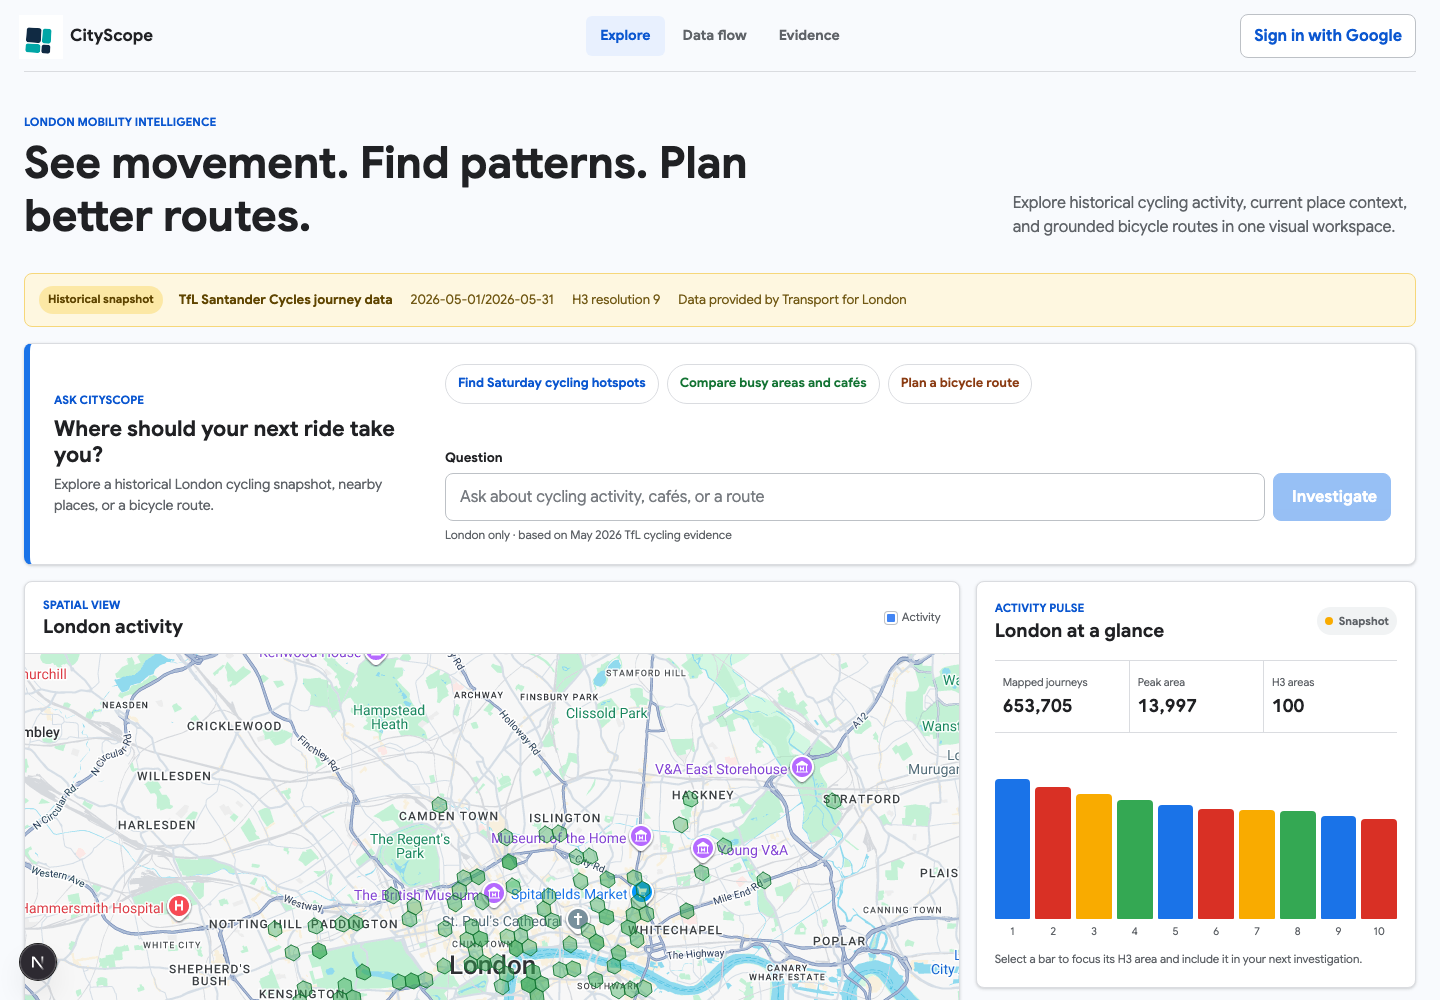
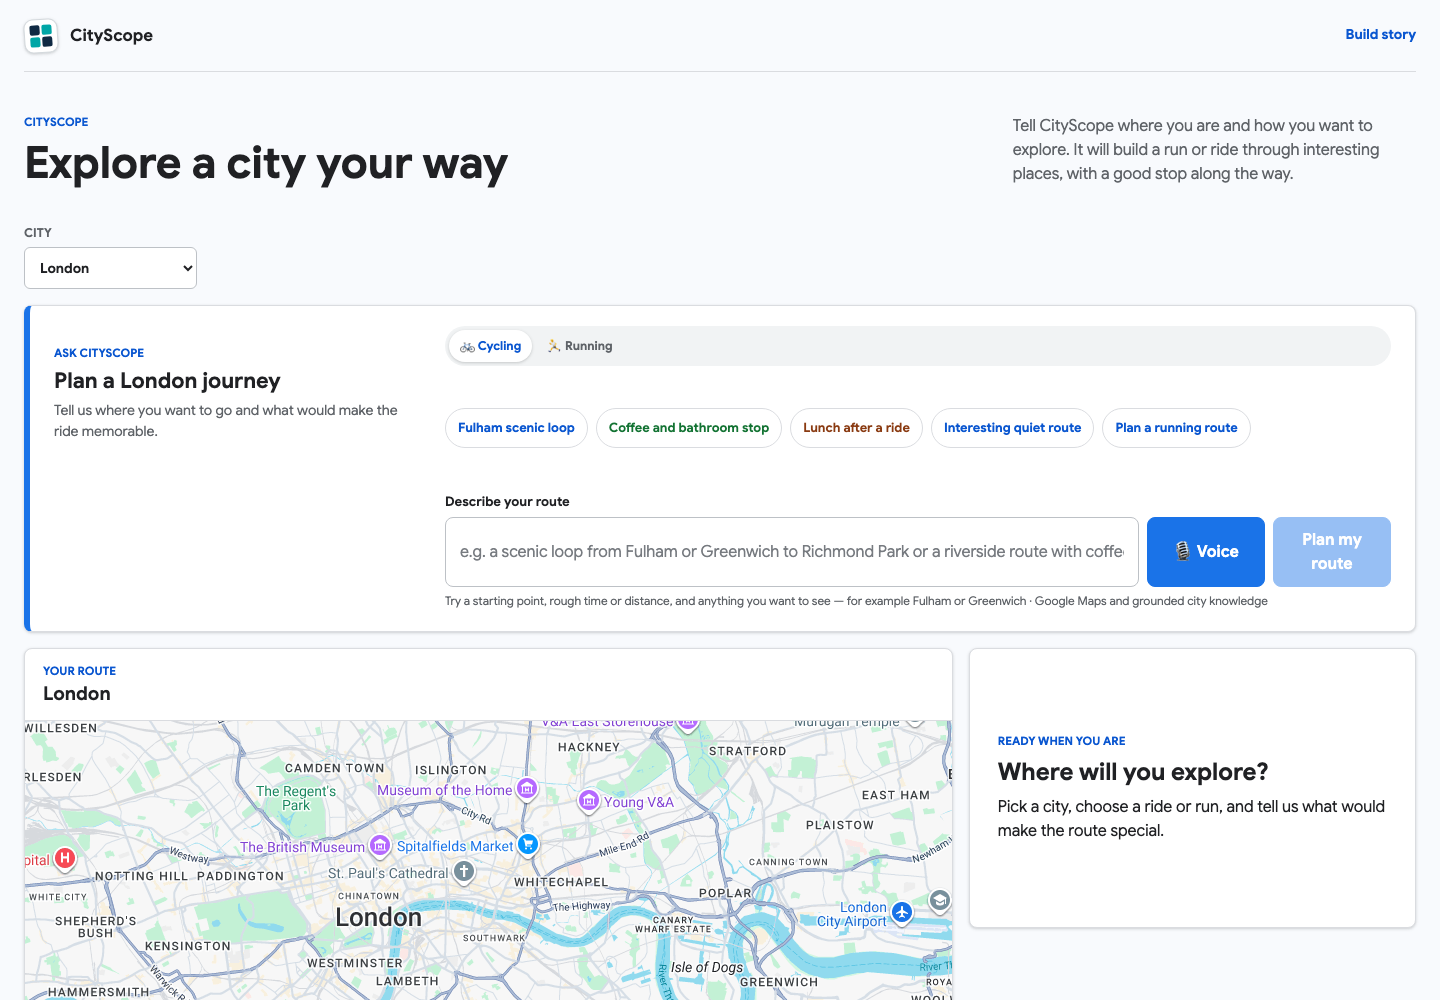
Refresh release screenshots

diff --git a/README.md b/README.md
@@ -20,7 +20,7 @@ CityScope turns a natural-language travel request into a grounded city adventure
 
 Choose a city and whether to run or cycle, then describe a starting point, rough duration or distance, and the kind of experience you want. The map and concise itinerary dominate the result.
 
-![A generated CityScope route with grounded stops](docs/assets/cityscope-route-planning.png)
+![CityScope public build story for the All Things Agentic Hackathon](docs/assets/cityscope-route-planning.png)
 
 <p align="center">
   <img src="docs/assets/cityscope-mobile.png" width="320" alt="CityScope mobile route planner" />
